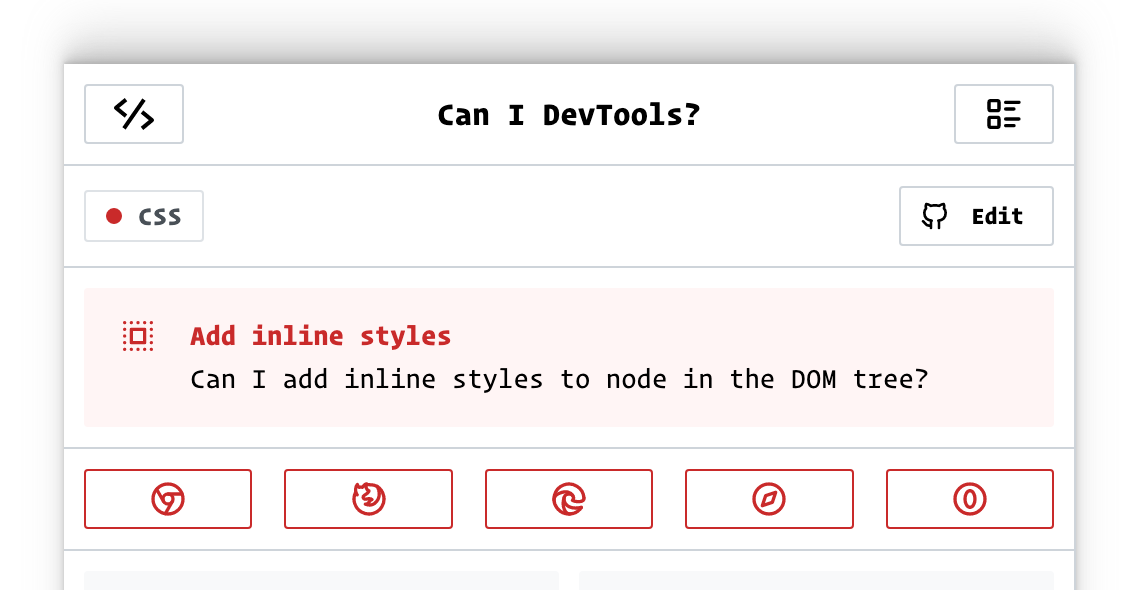
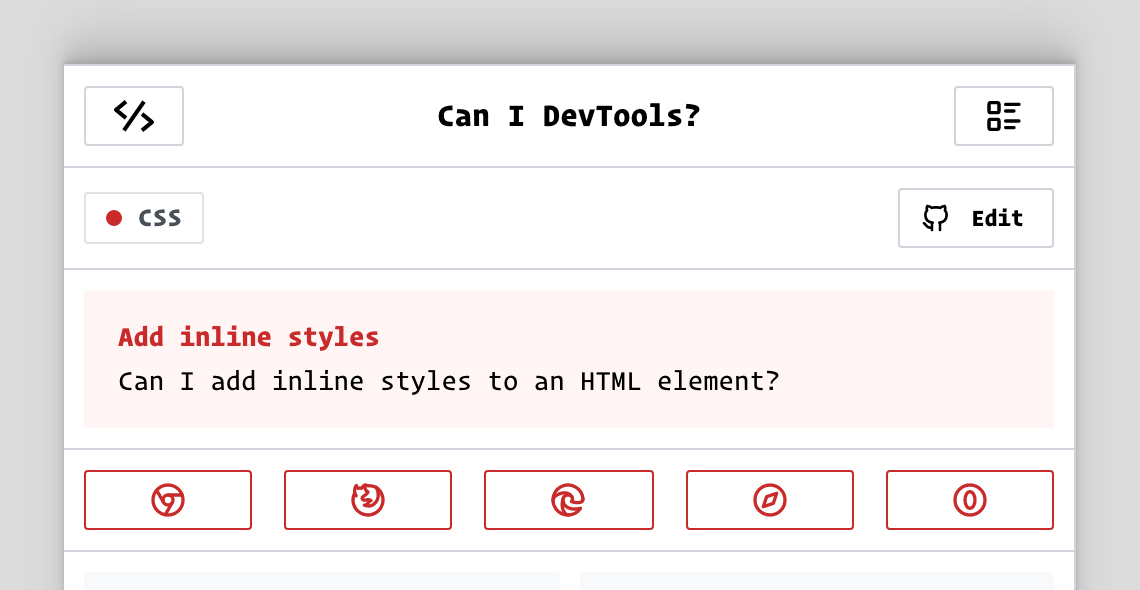
added images

diff --git a/README.md b/README.md
@@ -6,7 +6,7 @@
  1. In **Sources** > Add a breakpoint by clicking the line number > Right click and select "Edit Breakpoint...".
 2. Click **Add Action** > Select "Play Sound" to hear a beep sound each time the statement is executed.
 ## 2. Add class to element 
- Can I add a class to an element? 
+ Can I add a class to an HTML element? 
 - [Chrome](https://canidev.tools/add-class-element/chrome) 
  1. Inspect the element > Look for ".cls" button in the Styles pane next to the Filter field.
 2. Click the button and search for the existing class names to add to the element.
@@ -37,7 +37,7 @@
  1. Open **Settings** (`F1` or `Shift+?`) > Devices > Click "Add custom device...". 
 2. Enter the "Device Name" and other details associated with the device. Click the "Add" button.
 ## 4. Add inline styles 
- Can I add inline styles to node in the DOM tree? 
+ Can I add inline styles to an HTML element? 
 - [Chrome](https://canidev.tools/add-inline-styles/chrome) 
  1. Right click on the element and select "Inspect" (This will open the Elements panel in the devtools with selected element highlighted in the DOM tree). 
 2. Click "element.style" near the top of the Styles tab. Enter the declaration you want in the "property: value" format.
